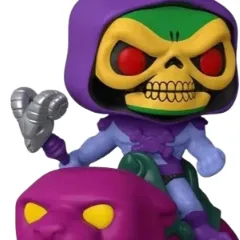
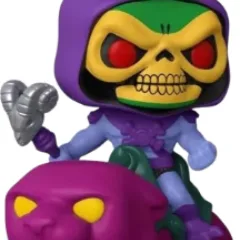
Photos: SKELETOR ON PANTHOR (funko-cl-p-079)

diff --git a/photos.js b/photos.js
@@ -1660,10 +1660,18 @@ window.MOTU_PHOTOS = {
  "funko-cl-p-079": {
   "images": [
    "img/characters/funko-cl-p-079-1.webp?v=vhvlkd",
-   "img/characters/funko-cl-p-079-cb.webp?v=vhvlkd"
+   "img/characters/funko-cl-p-079-cb.webp?v=vhvlkd",
+   "img/characters/funko-cl-p-079-2.webp?v=6fknfn",
+   "img/characters/funko-cl-p-079-3.webp?v=6fknfn"
   ],
   "preview": "img/characters/funko-cl-p-079-shelf.png?v=vhvlkd",
-  "thumb": "img/characters/funko-cl-p-079-thumb.webp?v=vhvlkd"
+  "thumb": "img/characters/funko-cl-p-079-thumb.webp?v=6fknfn",
+  "captions": {
+   "1": "Standard",
+   "2": "Flocked (Funko Shop)",
+   "3": "Flocked (Funko Shop)",
+   "cb": "Standard"
+  }
  },
  "funko-cl-p-097": {
   "images": [
